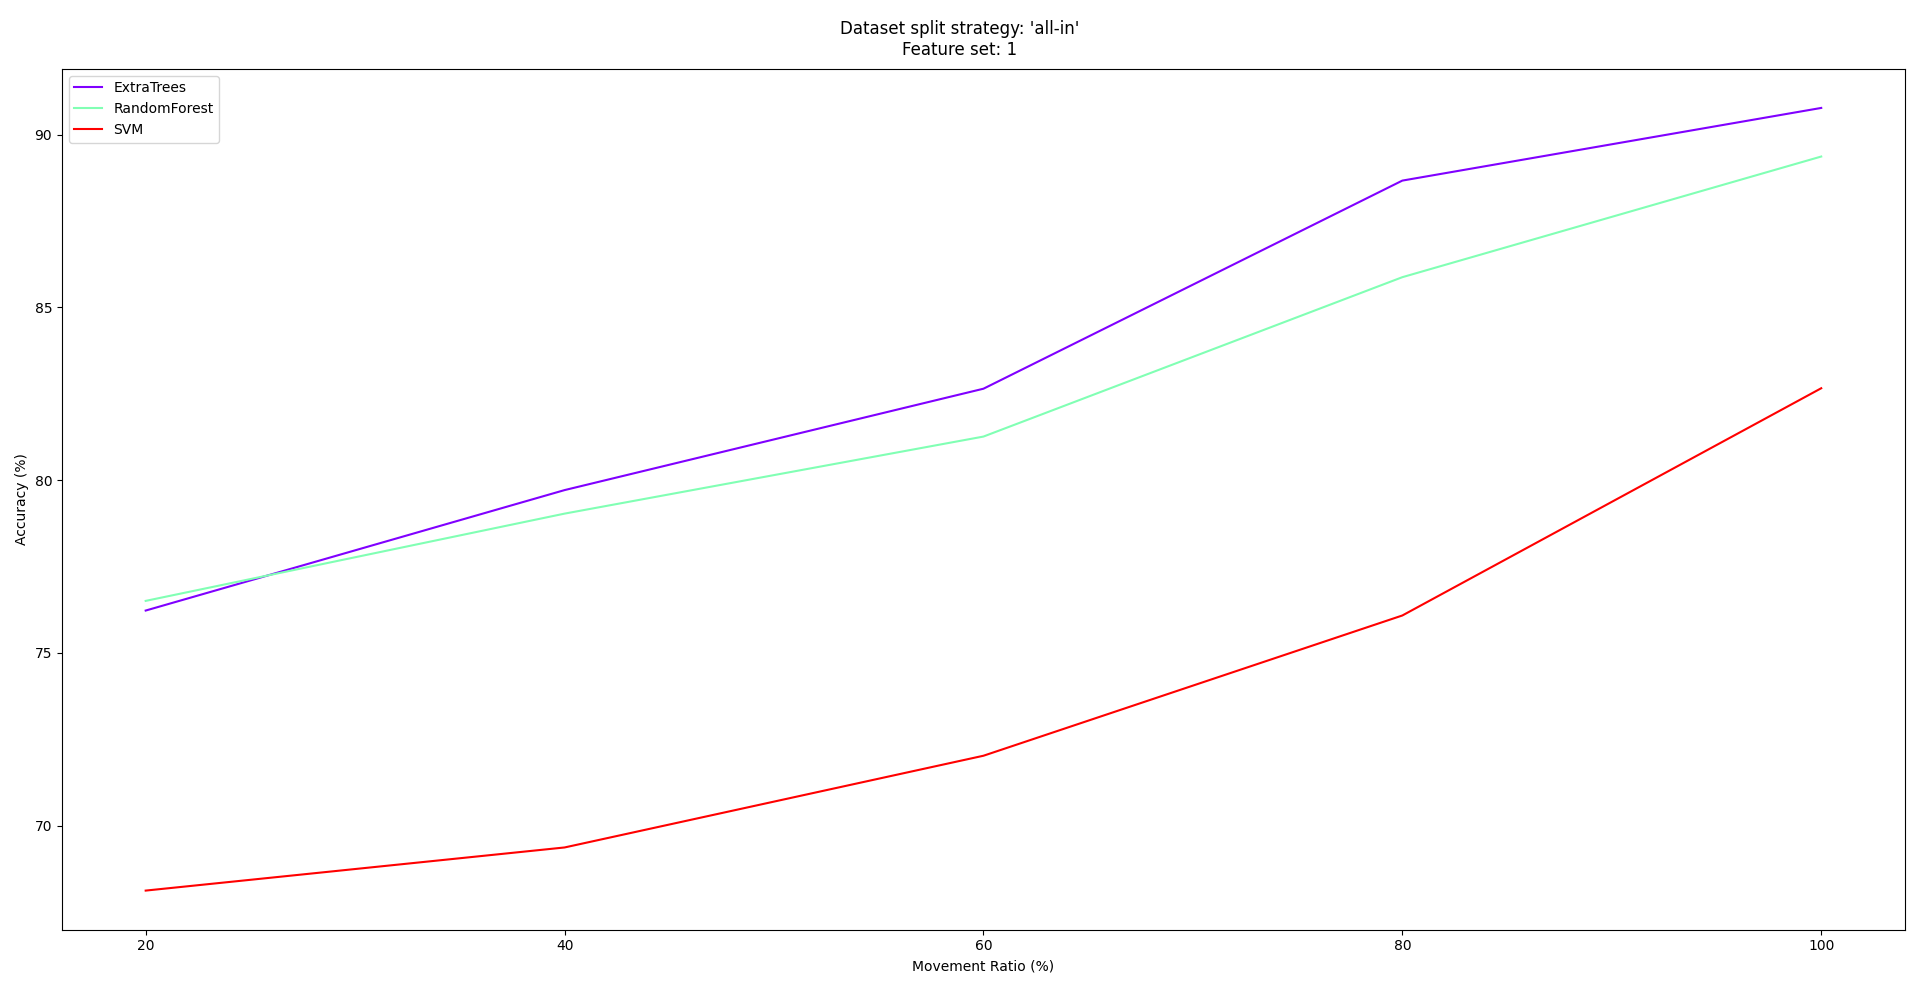
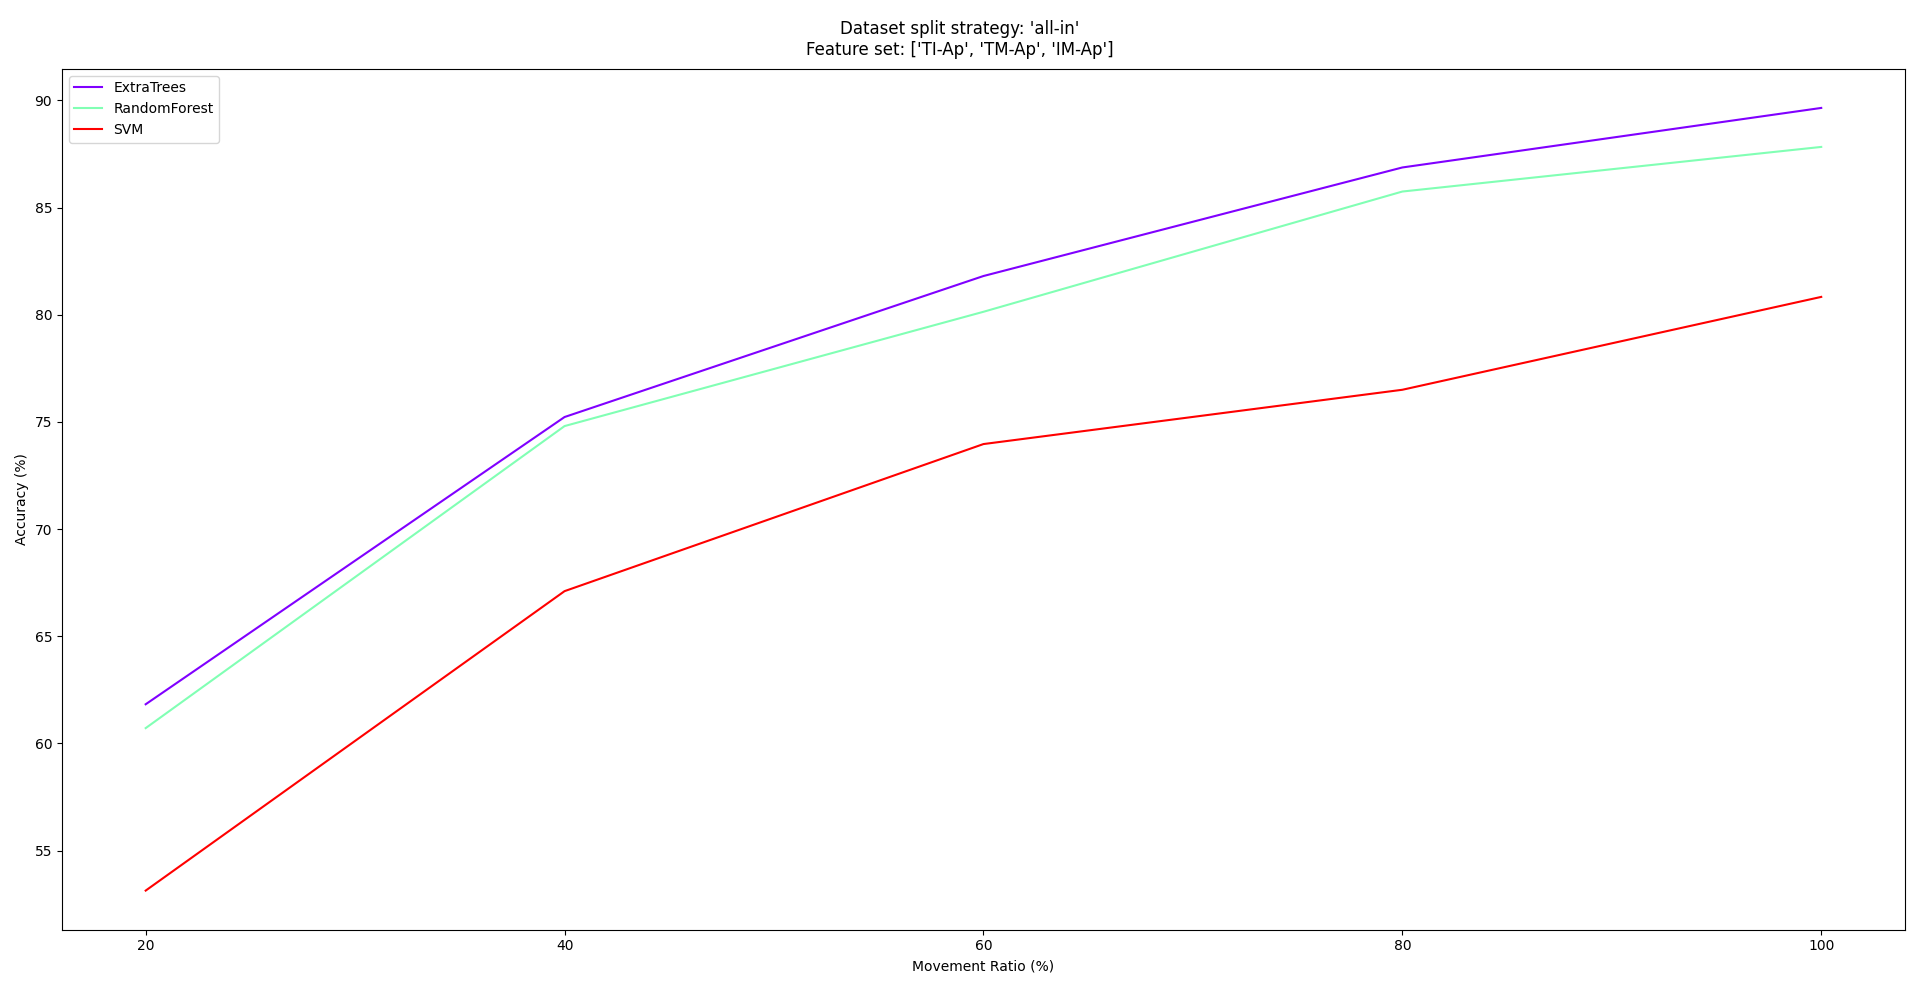
update README - fs 0, feature importances, Ws-I & Ws-D

diff --git a/README.md b/README.md
@@ -34,7 +34,7 @@ optional arguments:
   -h, --help            Show this help message and exit.
 ```
 
-### Dataset Split Strategy
+## Dataset Split Strategy
 As specificied in the help menu above, the user has to select the dataset split strategy to be used. The dataset split strategies are the following:
 - all-in
 - one-out
@@ -54,7 +54,7 @@ In the previous cases, the script will output the results of all the methods:
 
 for each of all the following feature sets.
 
-### Feature Sets
+## Feature Sets
 The kinematic features that are engineered for each feature set are the following:
 <p align="center">
 <img src="assets/feature_sets.png" height=600></img>
@@ -68,7 +68,7 @@ python3 evaluate_ml.py one-out --feature_sets 5 3 1
 python3 evaluate_ml.py one-out --methods ExtraTrees RandomForest SVM 
 python3 evaluate_ml.py all-in --feature_sets 5 3 1 --methods ExtraTrees RandomForest SVM
 ```
-### Results Format
+## Results Format
 The results are printed in the following format:
 ```
 python3 evaluate_ml.py all-in --feature_sets 5 3 1 --methods ExtraTrees RandomForest SVM
@@ -76,35 +76,38 @@ python3 evaluate_ml.py all-in --feature_sets 5 3 1 --methods ExtraTrees RandomFo
 
 ```
 Dataset split strategy: 'all-in'
-feature set: 1 ['index-middle aperture', 'thumb-index aperture', 'thumb-middle aperture']
+feature set: 1 ['TI-Ap', 'TM-Ap', 'IM-Ap']
                      20          40          60          80          100
-ExtraTrees    77.1 (5.0)  82.4 (4.2)  82.8 (4.1)  88.4 (3.5)  92.0 (3.3)
-RandomForest  77.0 (4.8)  79.4 (4.2)  82.1 (3.9)  87.0 (3.0)  89.4 (3.2)
-SVM           67.4 (2.3)  69.0 (3.8)  73.4 (2.5)  75.7 (3.7)  82.7 (3.0)
+ExtraTrees    61.8 (4.9)  75.2 (4.6)  81.8 (2.9)  86.9 (3.9)  89.6 (1.9)
+RandomForest  60.7 (3.5)  74.8 (4.9)  80.1 (3.6)  85.7 (3.5)  87.8 (2.7)
+SVM           53.1 (4.0)  67.1 (5.9)  74.0 (4.8)  76.5 (3.5)  80.8 (3.7)
 
 Dataset split strategy: 'all-in'
-feature set: 3 ['index-middle aperture', 'thumb-index aperture', 'thumb-middle aperture', 'wrist x-std_dev', 'wrist y-std_dev']
+feature set: 3 ['TI-Ap', 'TM-Ap', 'IM-Ap', 'wrist x-std_dev', 'wrist y-std_dev']
                      20          40          60          80          100
-ExtraTrees    78.5 (2.9)  82.1 (4.3)  84.6 (3.4)  88.1 (2.4)  91.0 (2.3)
-RandomForest  78.9 (4.3)  80.1 (3.7)  81.4 (2.8)  86.4 (3.1)  88.5 (3.2)
-SVM           69.5 (5.2)  70.8 (2.9)  71.9 (4.8)  75.1 (5.1)  82.1 (4.5)
+ExtraTrees    64.8 (2.6)  80.1 (3.9)  84.8 (5.1)  86.3 (2.3)  91.6 (2.5)
+RandomForest  62.5 (3.4)  78.6 (3.0)  82.1 (4.7)  86.8 (3.7)  89.2 (2.9)
+SVM           56.8 (4.8)  70.3 (4.8)  74.3 (4.8)  76.6 (3.3)  80.4 (4.0)
 
 Dataset split strategy: 'all-in'
-feature set: 5 ['index-middle aperture', 'thumb-index aperture', 'thumb-middle aperture', 'wrist x-speed', 'wrist y-speed']
+feature set: 5 ['TI-Ap', 'TM-Ap', 'IM-Ap', 'wrist x-speed', 'wrist y-speed']
                      20          40          60          80          100
-ExtraTrees    77.3 (5.0)  80.8 (4.3)  83.6 (3.1)  87.4 (3.0)  90.8 (4.3)
-RandomForest  75.9 (6.1)  80.0 (2.0)  82.0 (3.6)  85.4 (5.1)  87.3 (4.4)
-SVM           36.2 (6.1)  42.9 (5.4)  49.0 (6.3)  53.3 (5.2)  56.2 (3.9)
+ExtraTrees    61.8 (5.4)  77.3 (4.4)  82.7 (4.5)  86.0 (3.6)  90.6 (2.8)
+RandomForest  60.7 (4.9)  75.6 (6.3)  81.1 (5.4)  84.7 (4.0)  89.2 (3.7)
+SVM           36.9 (4.7)  45.5 (8.1)  53.1 (6.6)  61.3 (4.3)  59.4 (6.2)
 ```
 
 For each method, movement completion percentage and feature set combination, the floating point numbers indicate the mean and the standard deviation of the model's accuracy rates in the k-fold evaluation scheme.
 
-<b>Note:</b> The models' accuracy results will NOT be the same for two executions of the evaluation script with the same arguments unless a seed is provided. 
+<b>Note I:</b> The models' accuracy results will NOT be the same for two executions of the evaluation script with the same arguments unless a seed is provided. 
 
-### Plotting the results
-It is also possible to plot the accuracy results and the confusion matrices of the models interactively.
+<b>Note II:</b> The feature sets 1 and 2 are the workspace-independent (Ws-I) and the workspace-dependent (Ws-D) feature sets, respectively as presented in the paper.
+## Plotting the results
+It is possible to plot the accuracy results and the confusion matrices of the models interactively, as well as the feature importances of the Extra Trees model.
 
 Each confusion matrix has a 3x3 shape and was calculated as the average of k confusion matrices in the k-fold evaluation scheme. The floating point number outside the parentheses indicates the average accuracy for a (ground-truth label, predicted class) combination. On the other hand, the floating point number inside the parentheses indicates the standard deviation of the k accuracies for a (ground-truth label, predicted class) combination.
+
+The feature importances are calculated based on the Gini criterion for the Extra Trees model. 
 
 The user can choose the feature set and the method for which the plots are drawn interactively, using the arrow keys:
 - the 'up' and 'down' arrow keys are used to change the feature set
@@ -125,6 +128,10 @@ Initally the following figures are plotted:
 <img src="assets/confmtx_et_ex1.png"></img>
 </p>
 
+<p align="center">
+<img src="assets/feature_importance_ex1.png"></img>
+</p>
+
 After pressing the 'right' key, the confusion matrices' figure is updated:
 
 <p align="center">
@@ -141,11 +148,15 @@ After pressing the 'up' key, both the accuracy and the confusion matrices figure
 <img src="assets/confmtx_rf_ex3.png"></img>
 </p>
 
+<p align="center">
+<img src="assets/feature_importance_ex3.png"></img>
+</p>
+
 The program terminates when the user closes one of the figures.
 
 ## How to reproduce the results of the paper?
 Seed the random generator with 0.
 ```
-python3 evaluate_ml.py all-in --seed 0
-python3 evaluate_ml.py one-out --seed 0
+python3 evaluate_ml.py all-in --methods ExtraTrees --feature_set 1 2  --seed 0
+python3 evaluate_ml.py one-out --methods SVM --feature_set 1 2 --seed 0
 ```
